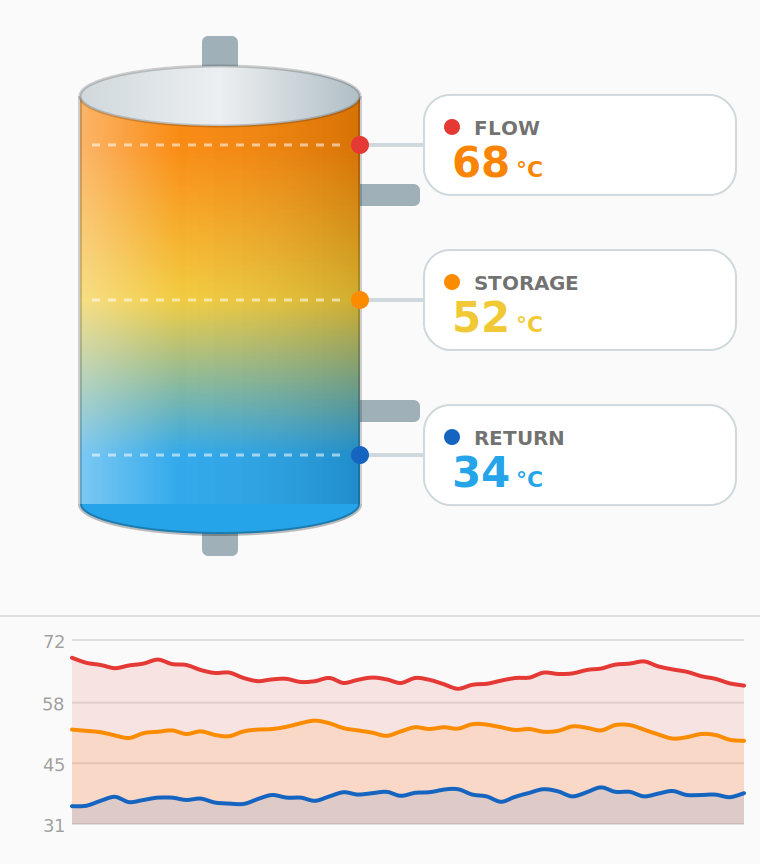
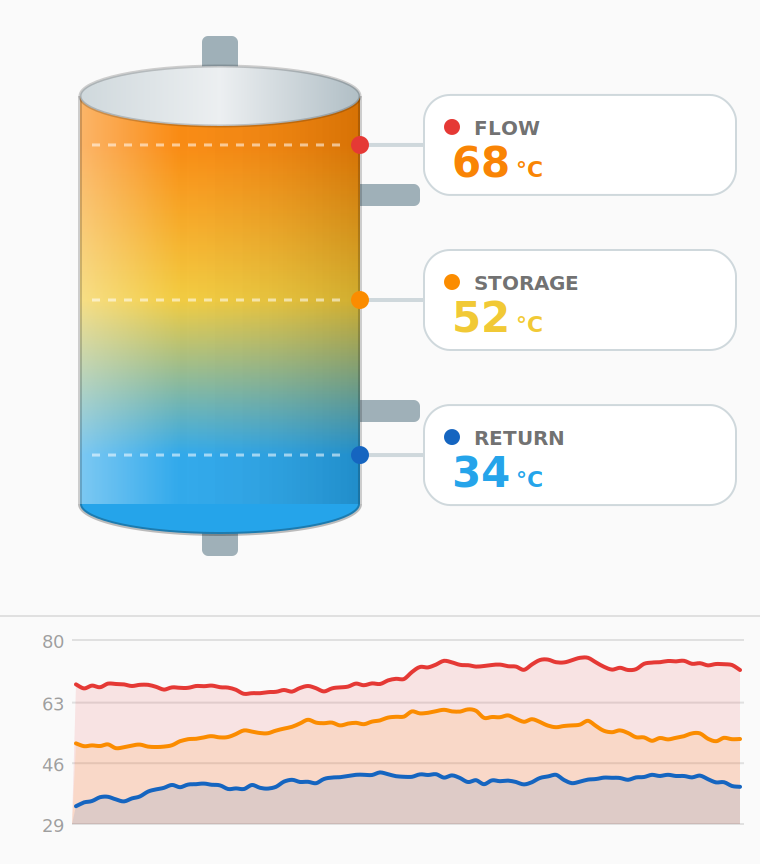
v1.2.1: fix icon_mode visibility, fix editor chart_sensors sync, downsample chart data

diff --git a/CHANGELOG.md b/CHANGELOG.md
@@ -5,6 +5,25 @@ All notable changes to this project are documented in this file.
 The format is based on [Keep a Changelog](https://keepachangelog.com/en/1.1.0/),
 and this project adheres to [Semantic Versioning](https://semver.org/spec/v2.0.0.html).
 
+## [1.2.1] - 2026-06-30
+
+### Fixed
+- The `icon_mode` field was missing from the visual editor when editing an
+  existing card without an icon already set, making the option undiscoverable.
+  It is now always shown.
+- The chart sensor selector bug from 1.2.0 was only fixed in the card itself,
+  not in the visual editor (which keeps its own separate copy of the
+  configuration): on first enabling the chart, the editor's checkboxes still
+  appeared empty even though the chart correctly showed all sensors. The
+  editor now applies the same defaulting logic as the card.
+
+### Changed
+- History chart data is now downsampled (averaged into fixed time bins,
+  roughly one point per 4 px of chart width) before the smoothing curve is
+  drawn. Raw History API data can be noisy with many closely-spaced state
+  changes; without downsampling the smoothed curve still looked jagged. The
+  chart is now visually calmer and closer to other popular history-graph
+  cards, regardless of how many raw data points the sensor produced.
 ## [1.2.0] - 2026-06-30
 
 ### Added
@@ -70,6 +89,7 @@ First public release.
   shows raw keys.
 - Theme-aware styling.
 
+[1.2.1]: https://github.com/naked-head/puffer-card/releases/tag/v1.2.1
 [1.2.0]: https://github.com/naked-head/puffer-card/releases/tag/v1.2.0
 [1.1.2]: https://github.com/naked-head/puffer-card/releases/tag/v1.1.2
 [1.1.1]: https://github.com/naked-head/puffer-card/releases/tag/v1.1.1